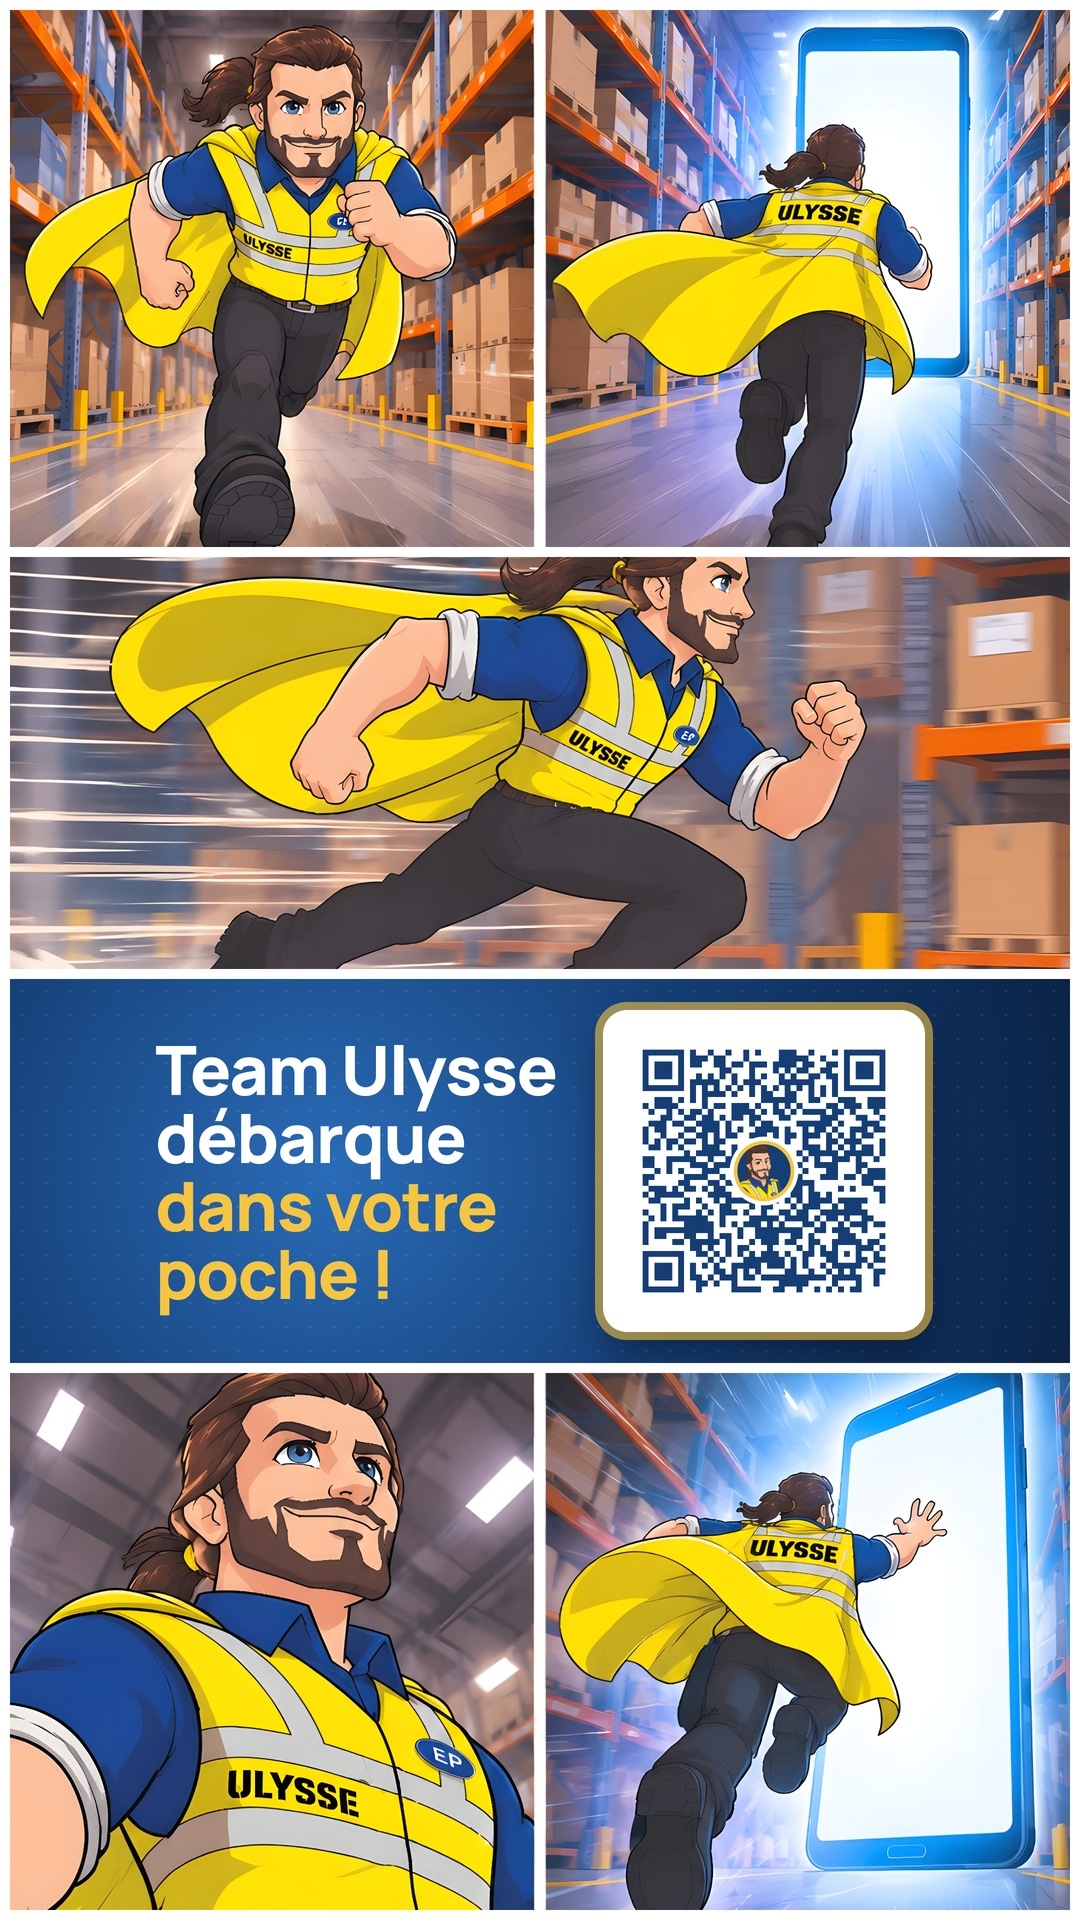
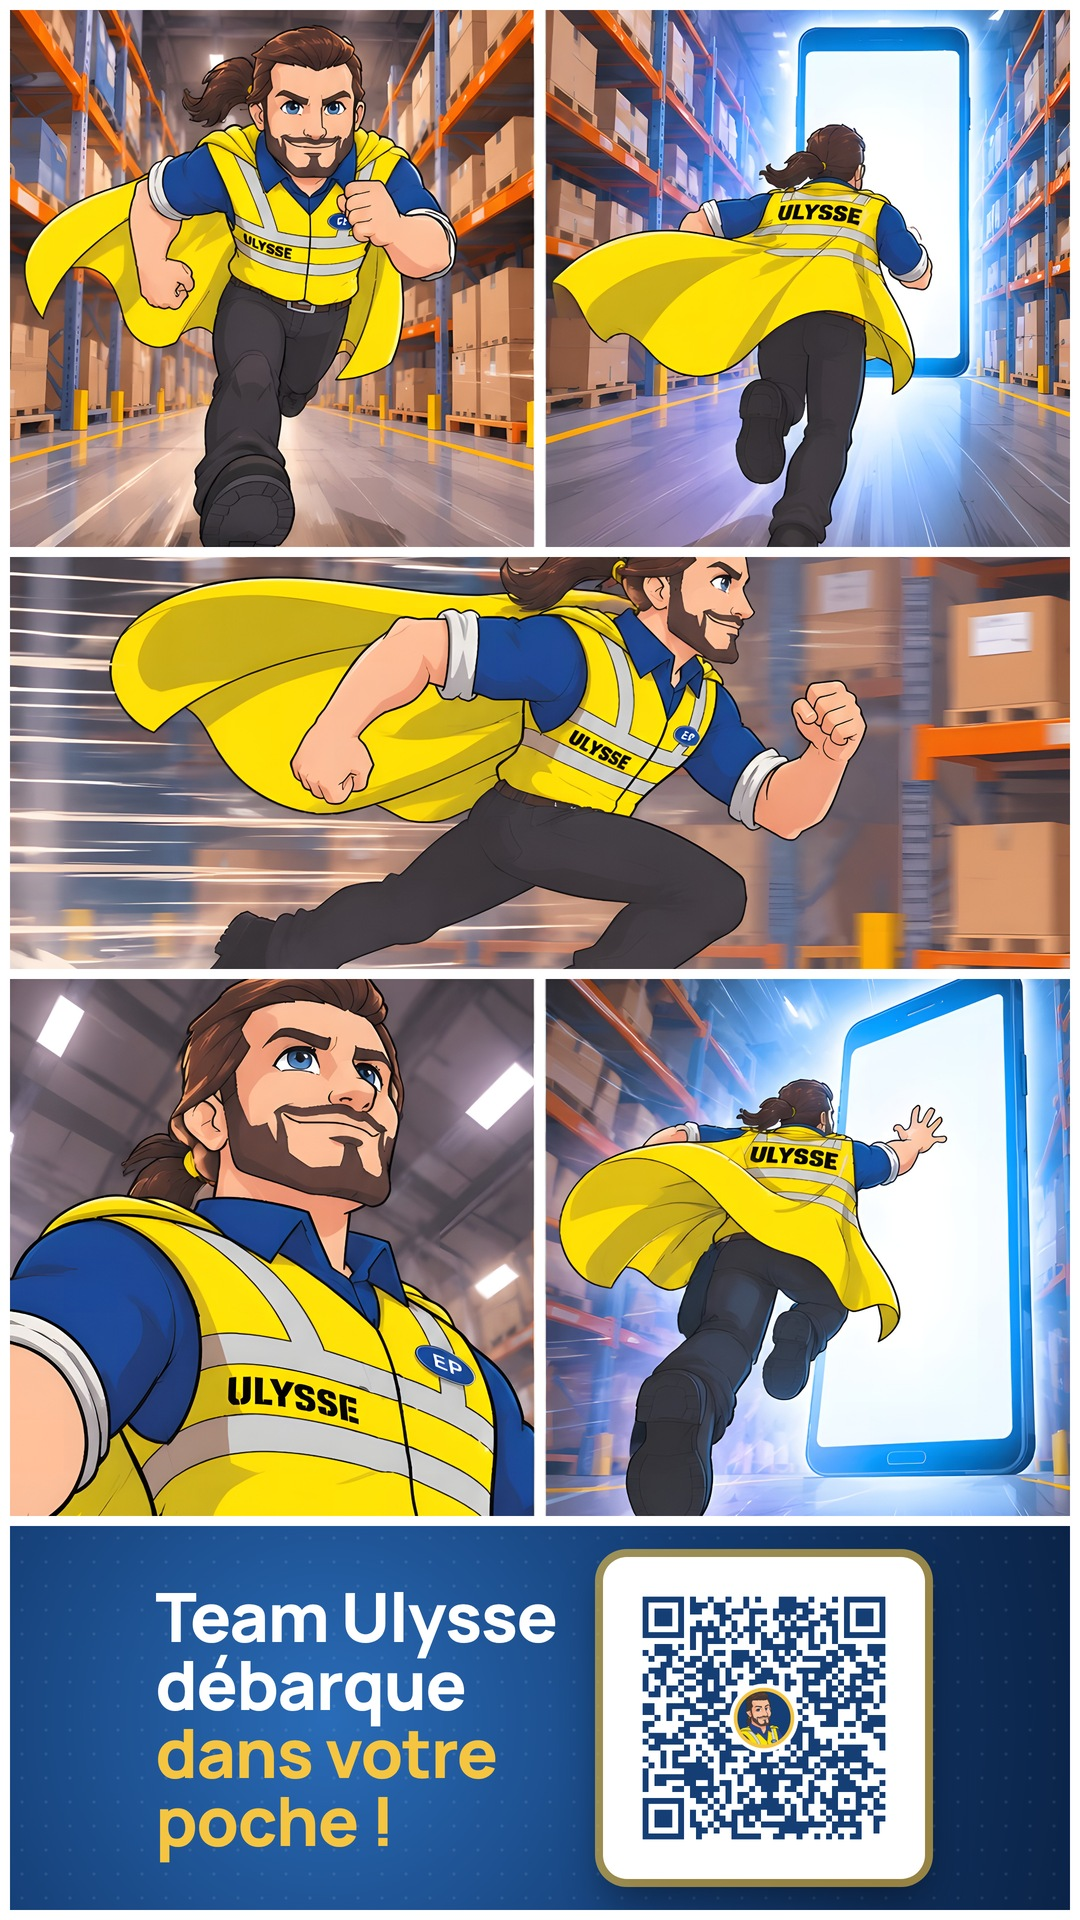
Affiches BD : bandeau bleu avec le QR code en bas (paysage et portrait)
Claude-Session: https://claude.ai/code/session_01UTW3MaXuG19g7RtJo149UJ

diff --git a/communication/sources/ecran-tv-bd.html b/communication/sources/ecran-tv-bd.html
@@ -8,29 +8,30 @@
       * { box-sizing: border-box; margin: 0; padding: 0; }
       html, body { width: 1920px; height: 1080px; overflow: hidden; }
       .page { width: 1920px; height: 1080px; background: #fff; padding: 10px;
-        display: grid; gap: 10px; grid-template-columns: 430fr 1040fr 430fr; grid-template-rows: 1fr 1fr; }
+        display: grid; gap: 10px; grid-template-columns: repeat(5, 1fr); grid-template-rows: 770fr 270fr; }
+      .bande { grid-column: span 5; }
       .c { position: relative; overflow: hidden; background: #0b2347; }
       .c img { width: 100%; height: 100%; object-fit: cover; display: block; }
       .texte { display: flex; align-items: center; justify-content: center; gap: 46px; padding: 0 40px; color: #fff; font-family: 'Manrope', sans-serif;
         background: radial-gradient(circle at 30% 50%, #2a6cb8 0%, #153e75 50%, #0b2347 100%); }
       .texte::before { content: ''; position: absolute; inset: 0; opacity: .08; background-image: radial-gradient(#fff 1.4px, transparent 1.8px); background-size: 24px 24px; }
-      .texte h1 { position: relative; font-weight: 800; font-size: 72px; line-height: 1; letter-spacing: -0.02em; }
+      .texte h1 { position: relative; font-weight: 800; font-size: 76px; line-height: 1.02; letter-spacing: -0.02em; }
       .texte h1 em { font-style: normal; color: #f5c542; }
-      .qr { position: relative; flex: none; padding: 16px; border-radius: 24px; background: #fff; box-shadow: 0 0 0 8px rgba(245,197,66,.6), 0 20px 40px rgba(0,0,0,.4); }
-      .qr img { display: block; width: 300px; height: 300px; object-fit: contain; }
+      .qr { position: relative; flex: none; padding: 12px; border-radius: 24px; background: #fff; box-shadow: 0 0 0 8px rgba(245,197,66,.6), 0 20px 40px rgba(0,0,0,.4); }
+      .qr img { display: block; width: 200px; height: 200px; object-fit: contain; }
     </style>
   </head>
   <body>
     <div class="page">
       <div class="c"><img src="img/ulysse-p1.jpg" style="object-position: 50% 45%" /></div>
-      <div class="c"><img src="img/ulysse-p3.jpg" style="object-position: 50% 45%" /></div>
-      <div class="c"><img src="img/ulysse-p2.jpg" style="object-position: 55% 50%" /></div>
+      <div class="c"><img src="img/ulysse-p3.jpg" style="object-position: 70% 40%" /></div>
       <div class="c"><img src="img/ulysse-p4.jpg" style="object-position: 45% 35%" /></div>
-      <div class="c texte">
-        <h1>Team Ulysse<br />débarque<br /><em>dans votre<br />poche !</em></h1>
+      <div class="c"><img src="img/ulysse-p2.jpg" style="object-position: 55% 50%" /></div>
+      <div class="c"><img src="img/ulysse-p5.jpg" style="object-position: 55% 50%" /></div>
+      <div class="c bande texte">
+        <h1>Team Ulysse débarque <em>dans votre poche !</em></h1>
         <div class="qr"><img src="img/qrcode.png" alt="QR code Team Ulysse" /></div>
       </div>
-      <div class="c"><img src="img/ulysse-p5.jpg" style="object-position: 55% 50%" /></div>
     </div>
   </body>
 </html>

diff --git a/communication/sources/affiche-bd-portrait.html b/communication/sources/affiche-bd-portrait.html
@@ -8,7 +8,7 @@
       * { box-sizing: border-box; margin: 0; padding: 0; }
       html, body { width: 1080px; height: 1920px; overflow: hidden; }
       .page { width: 1080px; height: 1920px; background: #fff; padding: 10px;
-        display: grid; gap: 10px; grid-template-columns: 1fr 1fr; grid-template-rows: 560fr 430fr 400fr 560fr; }
+        display: grid; gap: 10px; grid-template-columns: 1fr 1fr; grid-template-rows: 560fr 430fr 560fr 400fr; }
       .large { grid-column: span 2; }
       .c { position: relative; overflow: hidden; background: #0b2347; }
       .c img { width: 100%; height: 100%; object-fit: cover; display: block; }
@@ -26,12 +26,12 @@
       <div class="c"><img src="img/ulysse-p1.jpg" style="object-position: 50% 45%" /></div>
       <div class="c"><img src="img/ulysse-p2.jpg" style="object-position: 55% 50%" /></div>
       <div class="c large"><img src="img/ulysse-p3.jpg" style="object-position: 50% 45%" /></div>
+      <div class="c"><img src="img/ulysse-p4.jpg" style="object-position: 45% 35%" /></div>
+      <div class="c"><img src="img/ulysse-p5.jpg" style="object-position: 55% 50%" /></div>
       <div class="c large texte">
         <h1>Team Ulysse<br />débarque<br /><em>dans votre<br />poche !</em></h1>
         <div class="qr"><img src="img/qrcode.png" alt="QR code Team Ulysse" /></div>
       </div>
-      <div class="c"><img src="img/ulysse-p4.jpg" style="object-position: 45% 35%" /></div>
-      <div class="c"><img src="img/ulysse-p5.jpg" style="object-position: 55% 50%" /></div>
     </div>
   </body>
 </html>
